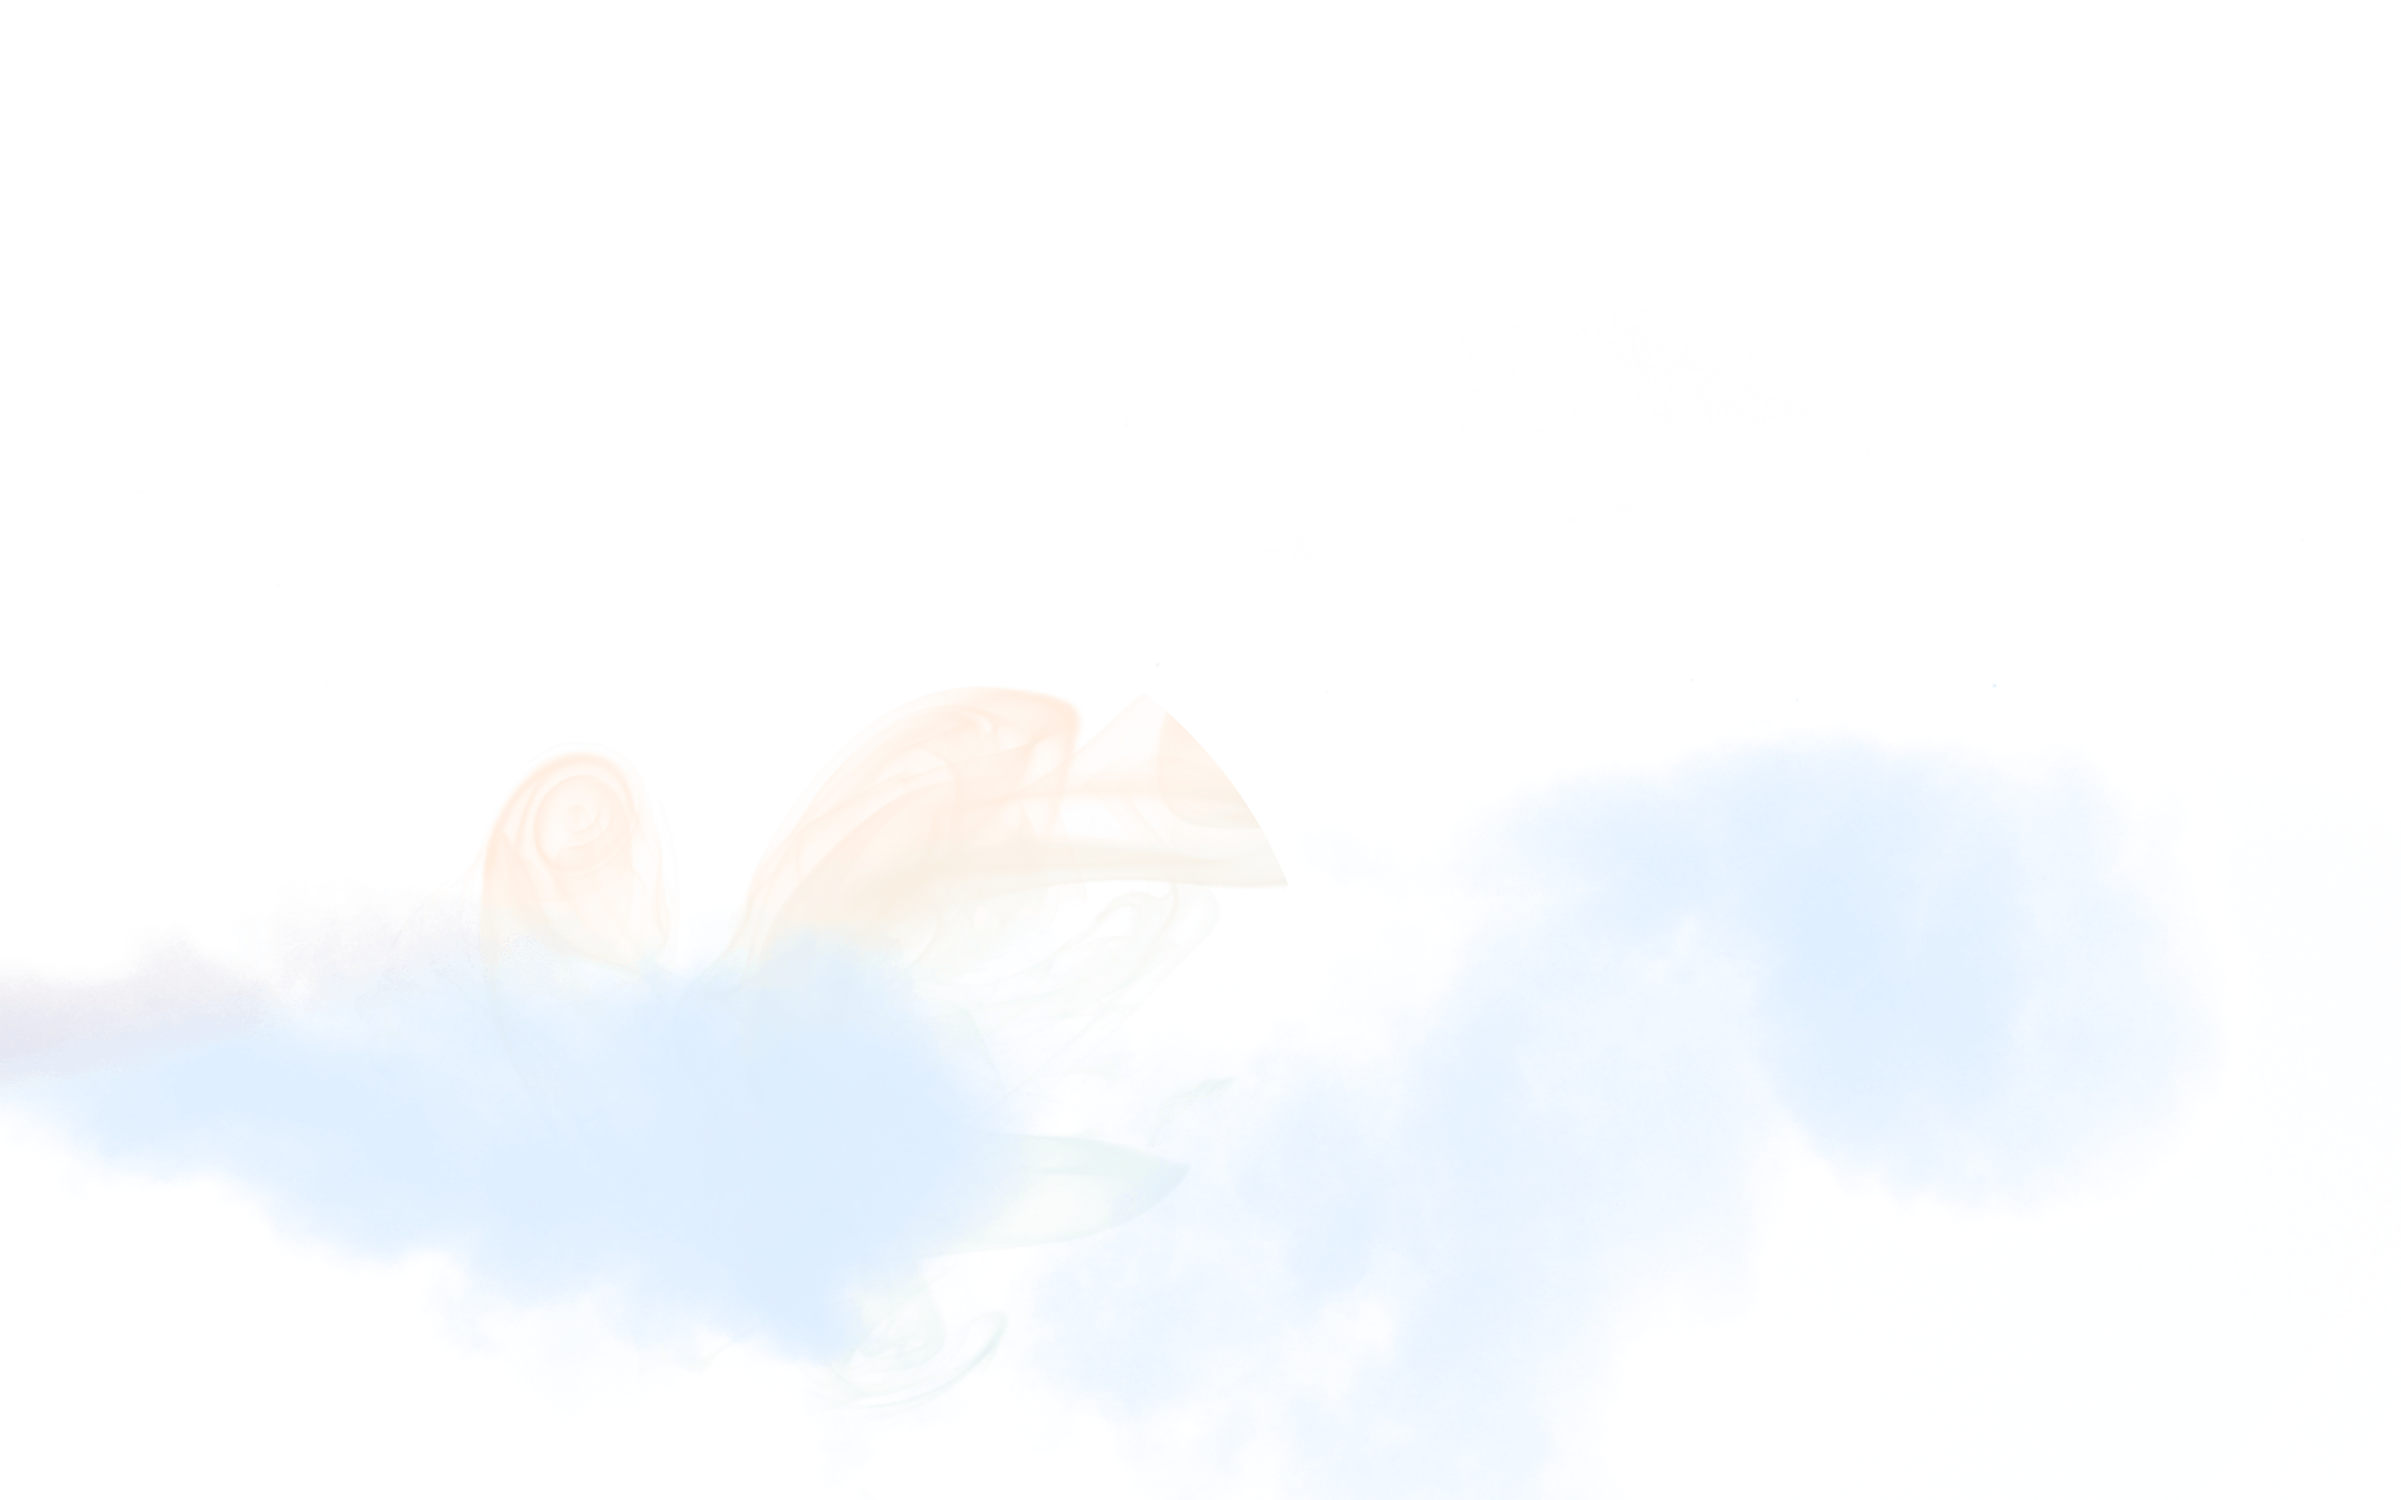
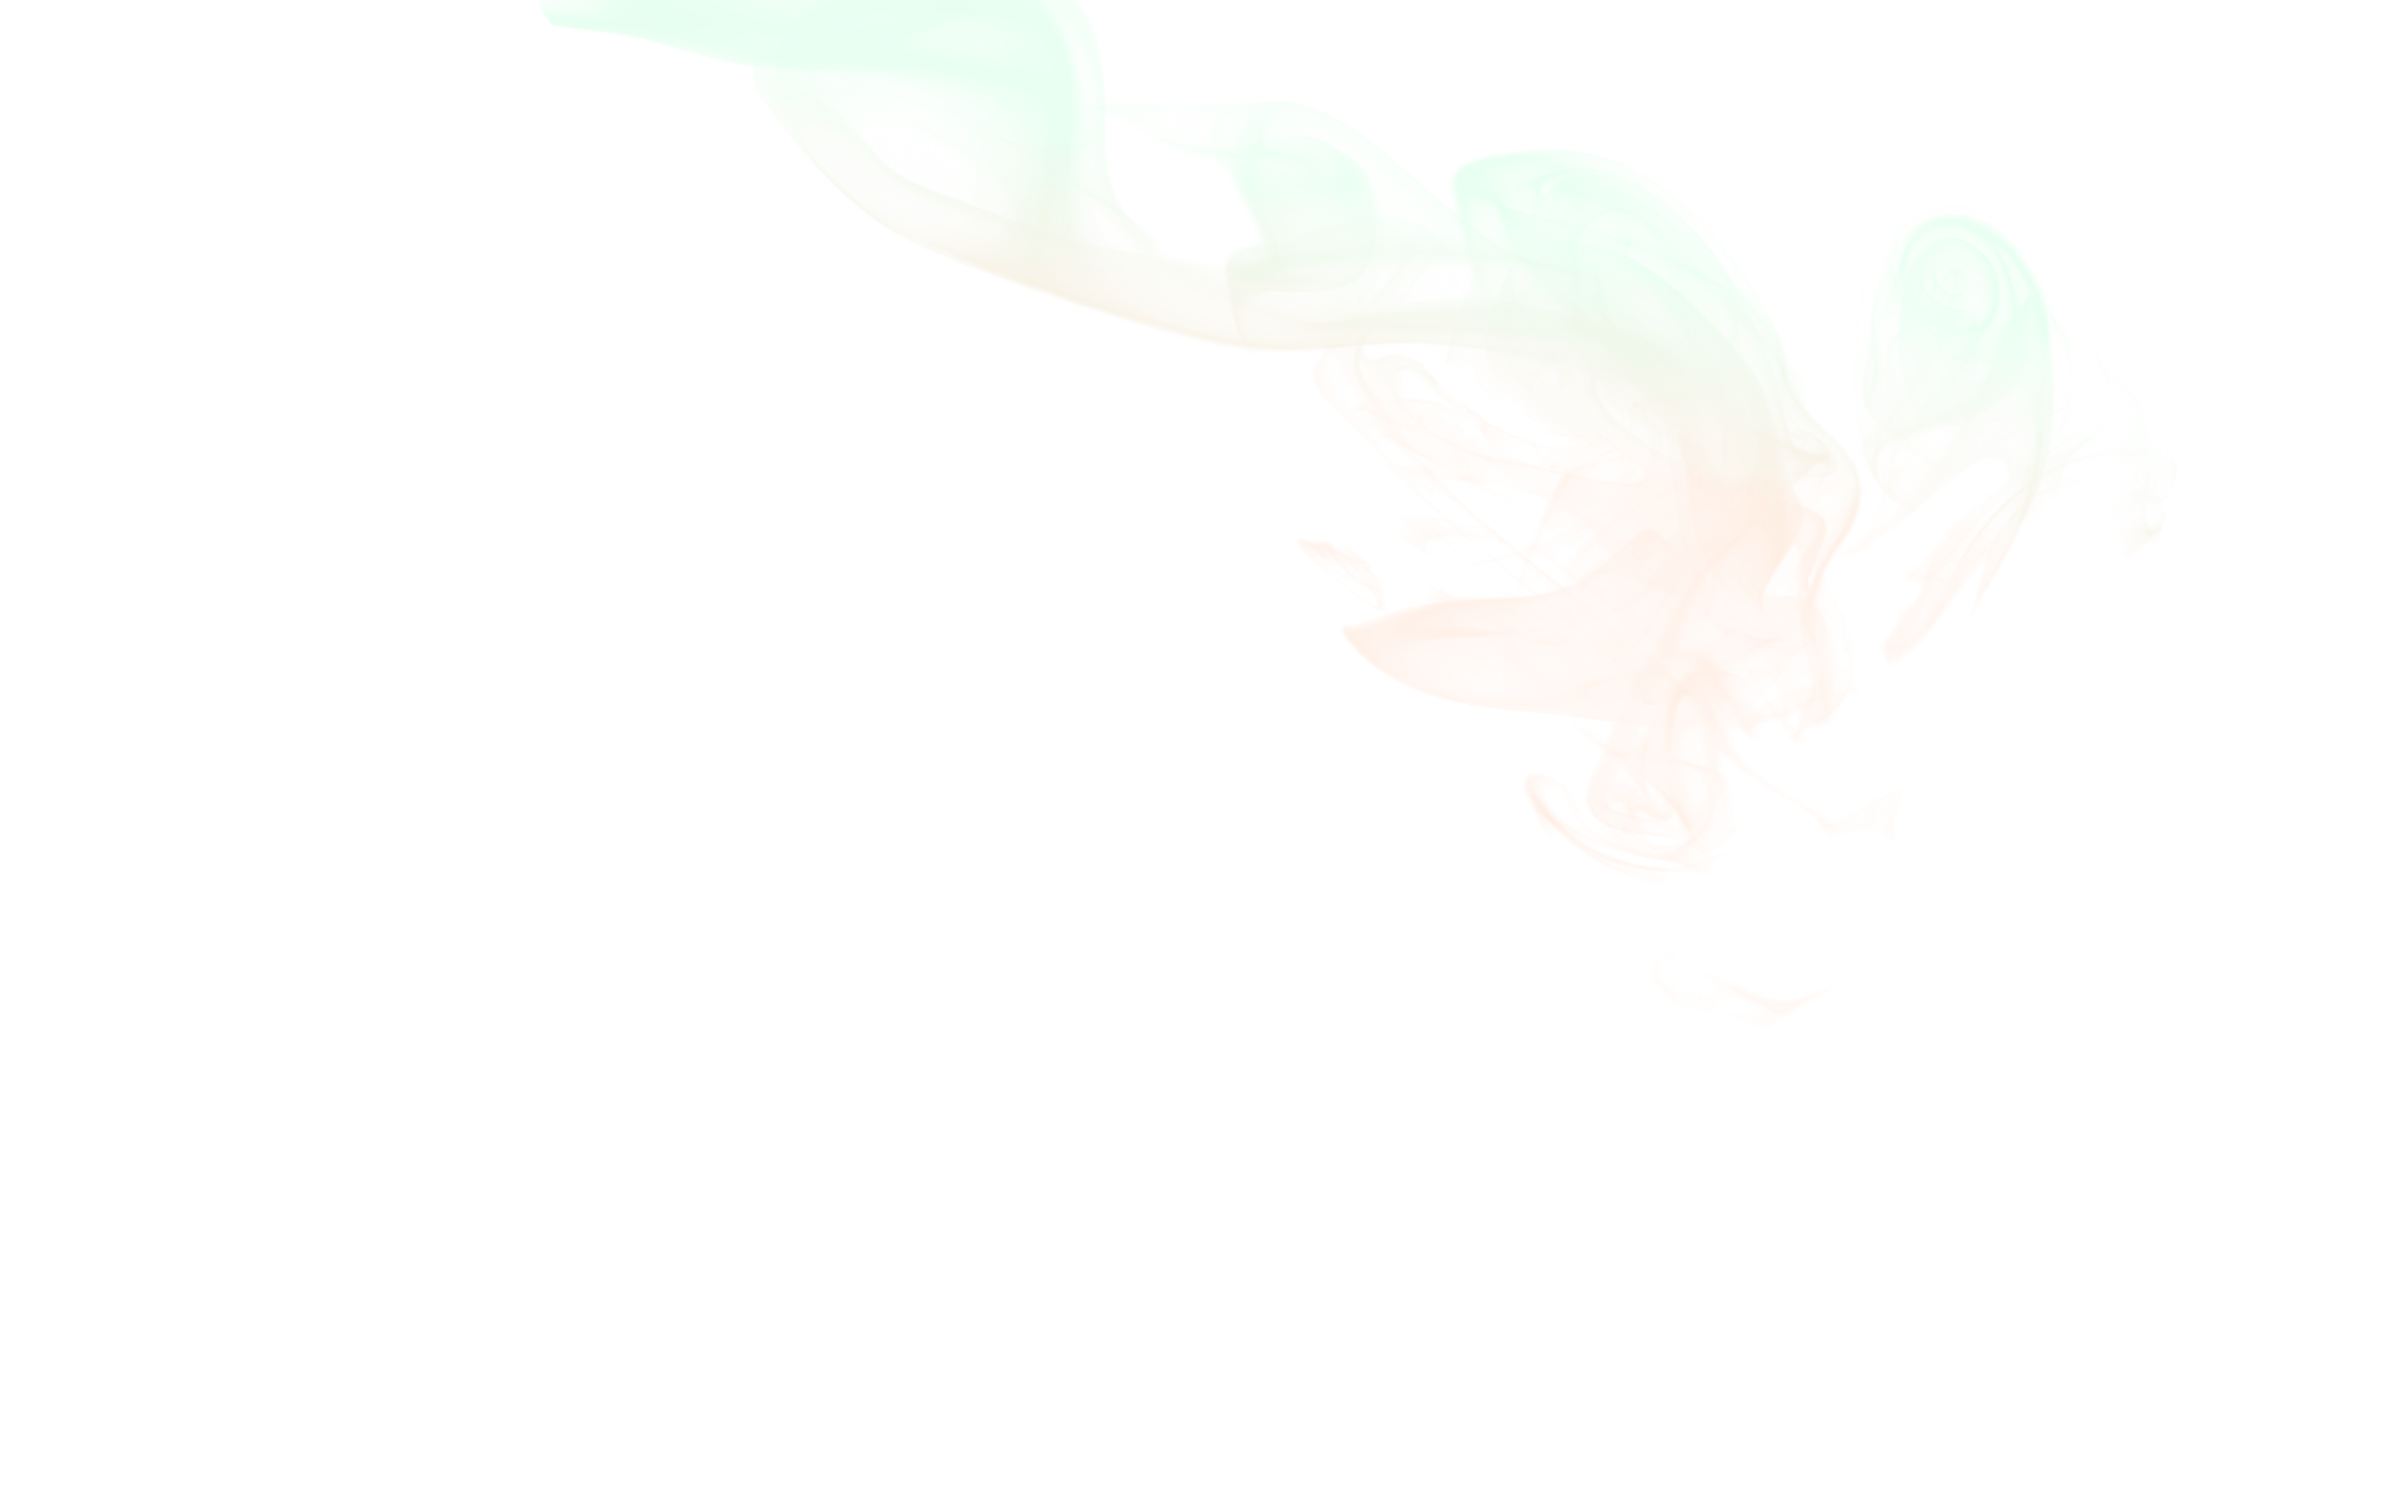
update: image smoke background

diff --git a/components/NFTInfo/NFTInfo.tsx b/components/NFTInfo/NFTInfo.tsx
@@ -45,7 +45,7 @@ const NFTInfo: React.FC<NFTInfoProps> = ({ nft, background }) => {
           src="/assets/img/pattern-smoke.png"
           width="100%"
           height="100%"
-          className="absolute bottom-0 z-10"
+          className="absolute bottom-0 z-10 opacity-40 h-full rotate-180 lg:translate-x-36	"
         />
       )}
       <div
